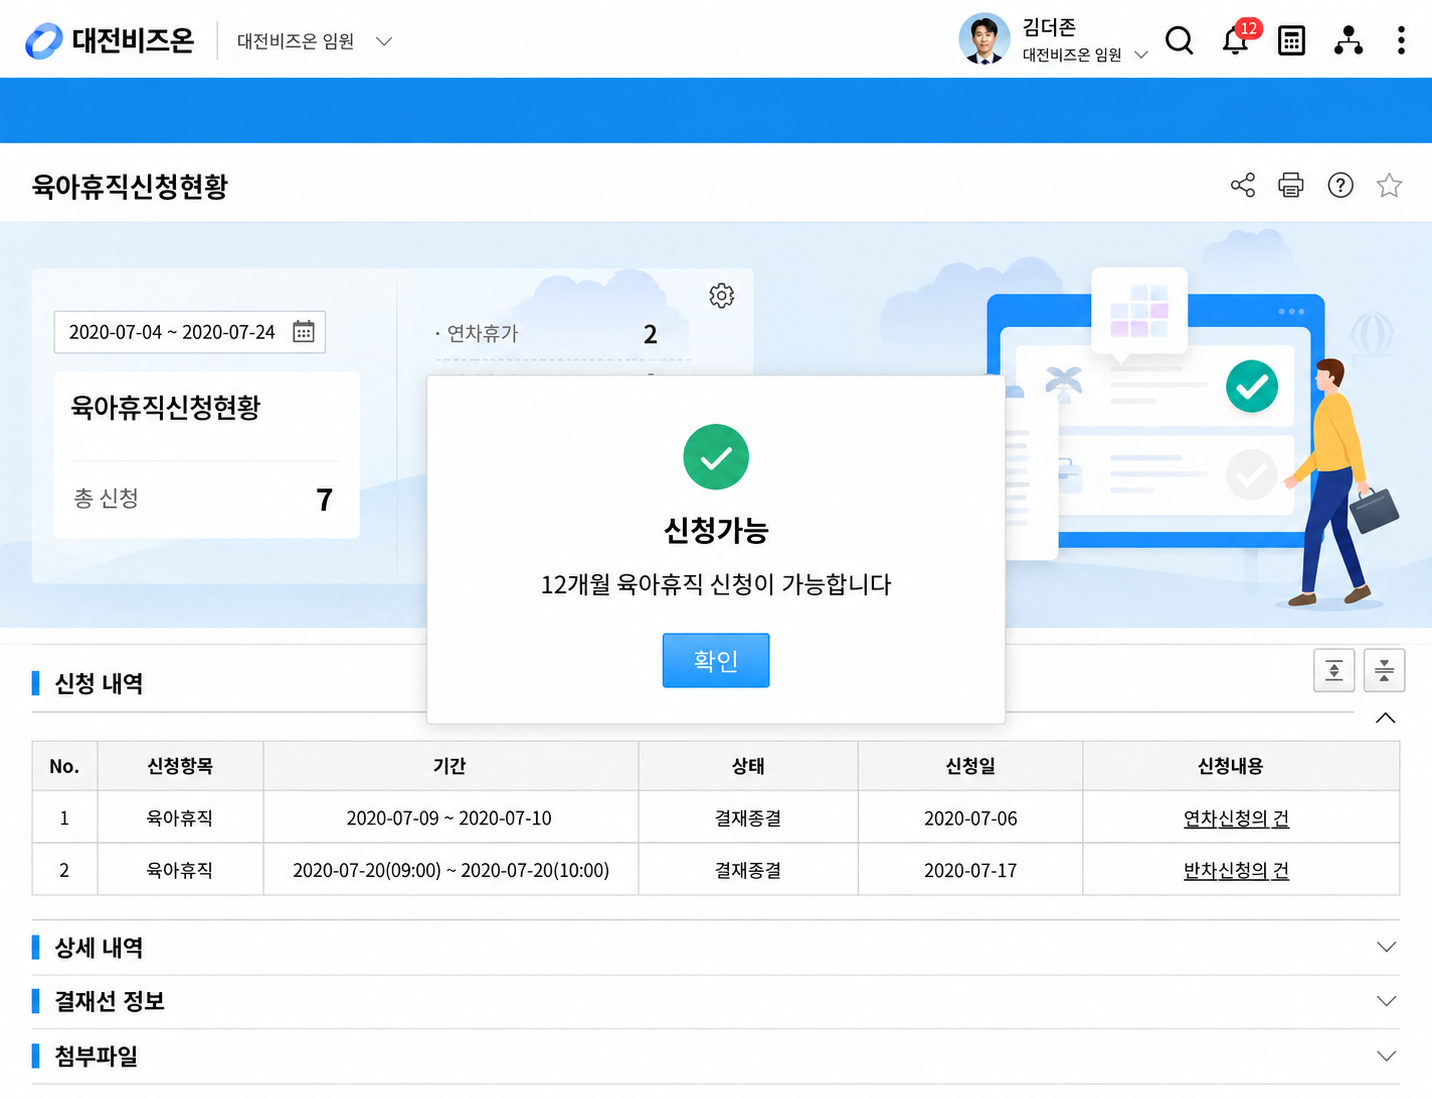
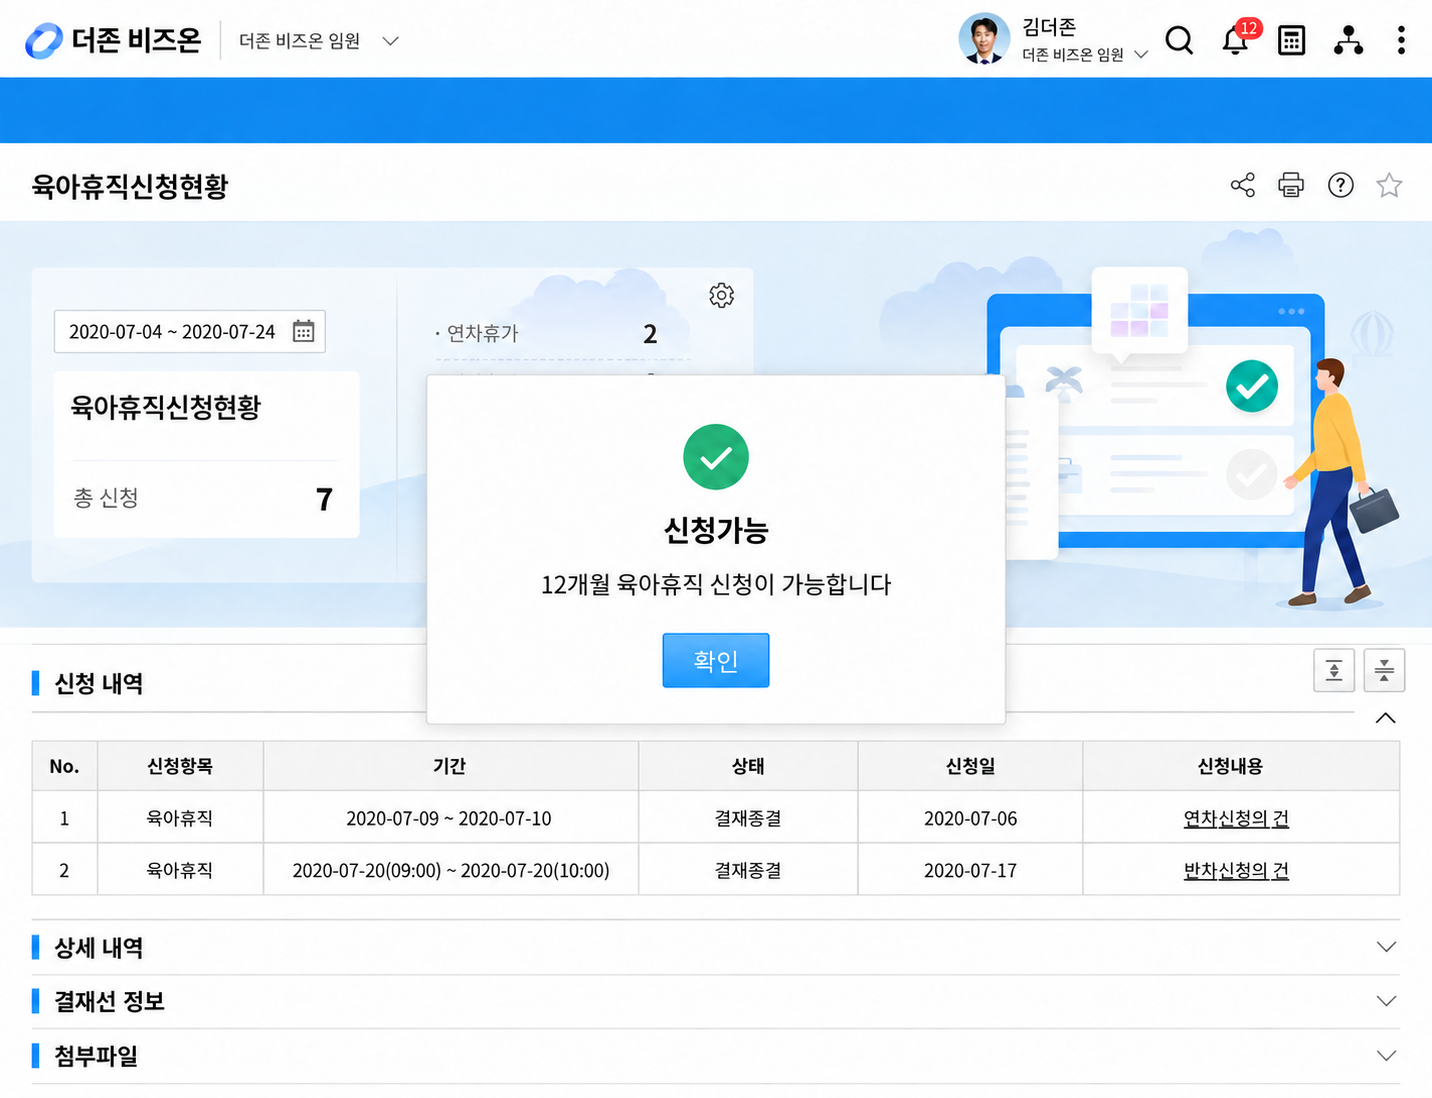
Fix Douzone company and profile text in product images

diff --git a/subpages/product/amaranth10/hr.html b/subpages/product/amaranth10/hr.html
@@ -58,7 +58,7 @@
                     </p>
                     <a href="https://youtu.be/6J2EmAe2nEQ?si=Lg2hNhujlv5vkZ82" class="youtb_btn cta sb-product-cta" data-fancybox="" target="_blank" rel="noopener noreferrer">영상으로 확인하기 </a>
                 </div>
-                <div class="img"><figure class="sb-frontal-monitor"><div class="sb-frontal-display"><a class="sb-screen-zoom" href="../../../assets/subpages/regenerated/ui-028.png" aria-label="Amaranth 10 연차관리 화면 크게 보기"><picture class="sb-frontal-picture"><source type="image/webp" srcset="../../../assets/subpages/regenerated/ui-028.webp"><img src="../../../assets/subpages/regenerated/ui-028.png" alt="Amaranth 10 연차관리 화면" loading="lazy" class="sb-frontal-screen" width="1311" height="1200"></picture></a></div><div class="sb-frontal-chin" aria-hidden="true"></div><div class="sb-frontal-stand" aria-hidden="true"></div><div class="sb-frontal-foot" aria-hidden="true"></div></figure></div>
+                <div class="img"><figure class="sb-frontal-monitor"><div class="sb-frontal-display"><a class="sb-screen-zoom" href="../../../assets/subpages/regenerated/ui-028.png" aria-label="Amaranth 10 연차관리 화면 크게 보기"><picture class="sb-frontal-picture"><source type="image/webp" srcset="../../../assets/subpages/regenerated/ui-028.webp"><img src="../../../assets/subpages/regenerated/ui-028.png" alt="Amaranth 10 연차관리 화면" loading="lazy" class="sb-frontal-screen" width="1310" height="1200"></picture></a></div><div class="sb-frontal-chin" aria-hidden="true"></div><div class="sb-frontal-stand" aria-hidden="true"></div><div class="sb-frontal-foot" aria-hidden="true"></div></figure></div>
             </div>
             <div class="hr04 sb-feature sb-design-row sb-centered-feature" data-layout="visual-left">
                 <div class="cont_txt">

diff --git a/subpages/product/nonprofit/intro.html b/subpages/product/nonprofit/intro.html
@@ -687,7 +687,7 @@
                     </p>
                     <a href="https://youtu.be/6J2EmAe2nEQ?si=Lg2hNhujlv5vkZ82" class="youtb_btn cta sb-product-cta" data-fancybox="" target="_blank" rel="noopener noreferrer">영상으로 확인하기 </a>
                 </div>
-                <div class="img"><figure class="sb-frontal-monitor"><div class="sb-frontal-display"><a class="sb-screen-zoom" href="../../../assets/subpages/regenerated/ui-028.png" aria-label="연차관리 제품 화면 크게 보기"><picture class="sb-frontal-picture"><source type="image/webp" srcset="../../../assets/subpages/regenerated/ui-028.webp"><img src="../../../assets/subpages/regenerated/ui-028.png" alt="연차관리 제품 화면" loading="lazy" class="sb-frontal-screen" width="1311" height="1200"></picture></a></div><div class="sb-frontal-chin" aria-hidden="true"></div><div class="sb-frontal-stand" aria-hidden="true"></div><div class="sb-frontal-foot" aria-hidden="true"></div></figure></div>
+                <div class="img"><figure class="sb-frontal-monitor"><div class="sb-frontal-display"><a class="sb-screen-zoom" href="../../../assets/subpages/regenerated/ui-028.png" aria-label="연차관리 제품 화면 크게 보기"><picture class="sb-frontal-picture"><source type="image/webp" srcset="../../../assets/subpages/regenerated/ui-028.webp"><img src="../../../assets/subpages/regenerated/ui-028.png" alt="연차관리 제품 화면" loading="lazy" class="sb-frontal-screen" width="1310" height="1200"></picture></a></div><div class="sb-frontal-chin" aria-hidden="true"></div><div class="sb-frontal-stand" aria-hidden="true"></div><div class="sb-frontal-foot" aria-hidden="true"></div></figure></div>
             </div>
             <div class="hr04 sb-feature sb-design-row sb-centered-feature" data-layout="visual-right">
                 <div class="cont_txt">
